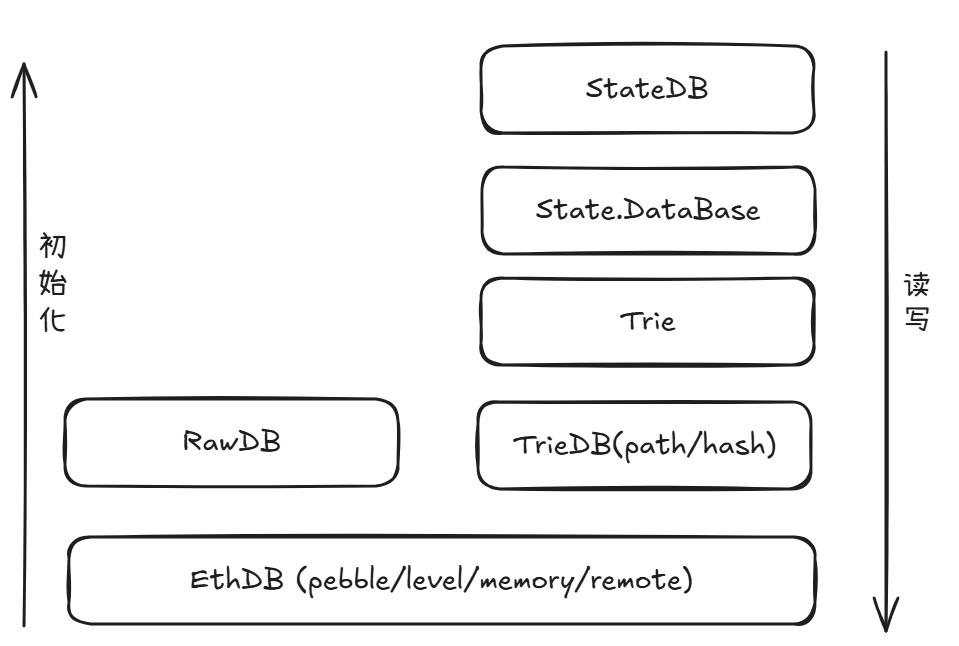
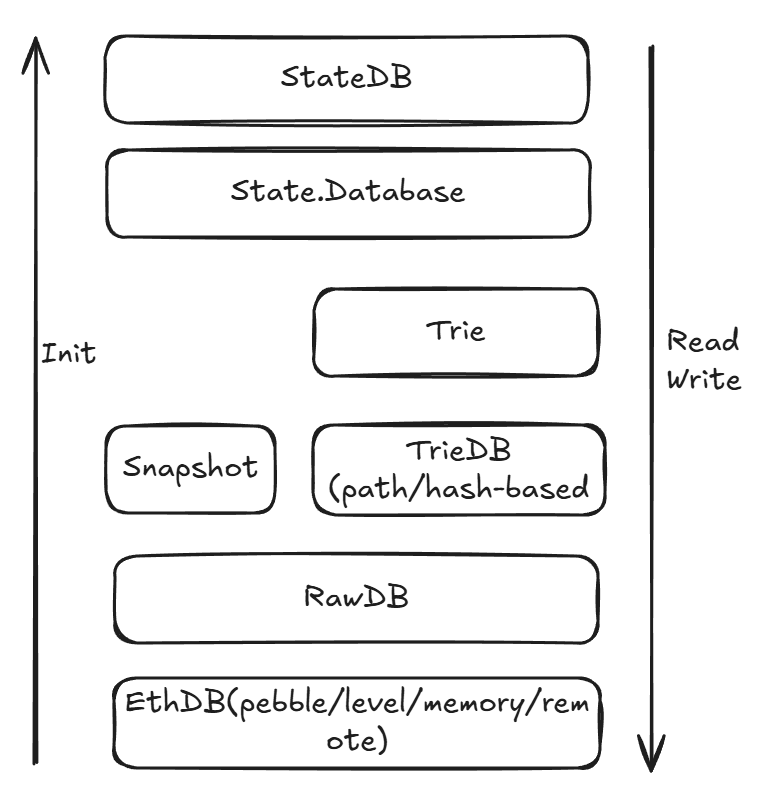
update Geth db design: add snapshot

Changed region(s): [[0.0, 0.031, 0.9896, 0.9907], [0.3898, 0.3715, 0.4198, 0.4644]]

diff --git a/Geth源码系列：存储设计及实现.md b/Geth源码系列：存储设计及实现.md
@@ -1,6 +1,6 @@
 # Geth 源码系列：存储设计及实现
 
-Author: Po
+Author: Po (X: @sanemindpeace)
 
 这篇文章是 Geth 源码系列的第二篇，通过这个系列，我们将搭建一个研究 Geth 实现的框架，开发者可以根据这个框架深入自己感兴趣的部分研究。这个系列共有六篇文章，在这第二篇文章中，将系统讲解 Geth 的存储结构设计与相关源码，介绍其数据库层次划分并详细分析各个层次中相应模块的核心功能。
 
@@ -8,7 +8,7 @@ Author: Po
 
 # 1. Geth底层数据库总览
 
-自 Geth v1.9.0 版本起，Geth 将其数据库分为两部分：**快速访问存储**（KV数据库，用于最近的区块和状态数据）和称为 **freezer 的存储**（用于较旧的区块和收据数据，即“ancients”）。
+自 [Geth v1.9.0 版本起](https://blog.ethereum.org/2019/07/10/geth-v1-9-0)，Geth 将其数据库分为两部分：**快速访问存储**（KV数据库，用于最近的区块和状态数据）和称为 **freezer 的存储**（用于较旧的区块和收据数据，即“ancients”）。
 
 这样划分的目的是减少对昂贵、易损的 SSD 的依赖，将访问频率较低的数据迁移到成本更低、耐用性更高的磁盘上。与此同时，这种拆分也能减轻 LevelDB/PebbleDB 的压力，提高其整理和读取性能，使得在给定的缓存大小下，更多状态树节点能够常驻内存，从而提升整体系统效率。
 
@@ -73,9 +73,9 @@ Geth 的底层使用 LevelDB/PebbleDB 存储所有以 [RLP](https://ethereum.org
 +-----------------------+-----------------------------+------------+------------+
 ```
 
-# 2. 源码视角下的存储分层: 6种DB
+# 2. 源码视角下的存储分层: 7种DB
 
-总体而言，Geth 中包含 `StateDB`、`state.Database`、`trie.Trie`、`TrieDB`、`rawdb` 和 `ethdb` 六个数据库模块，它们如同一棵“状态生命树”的各个层级。最顶层的 `StateDB` 是 EVM 执行阶段的状态接口，负责处理账户与存储的读写请求，并将这些请求逐层下传，最终由最底层负责物理持久化的 `ethdb` 读/写物理数据库。
+总体而言，Geth 中包含 `StateDB`、`state.Database`、`trie.Trie`、`TrieDB`、`Snapshot`、`rawdb` 和 `ethdb` 七个数据库模块，它们如同一棵“状态生命树”的各个层级。最顶层的 `StateDB` 是 EVM 执行阶段的状态接口，负责处理账户与存储的读写请求，并将这些请求逐层下传，最终由最底层负责物理持久化的 `ethdb` 读/写物理数据库。
 
 接下来，我们将依次介绍这六个数据库模块的职责及它们之间的协作关系。
 
@@ -87,27 +87,29 @@ Geth 的底层使用 LevelDB/PebbleDB 存储所有以 [RLP](https://ethereum.org
 
 源码中，`StateDB` 的主要定义位于 `core/state/statedb.go`。它的核心结构维护了一系列内存状态对象（`stateObject`），每个`stateObject`对应一个账户（包含合约存储）。它还包含一个 `journal`（事务日志）用于支持回滚，以及用于追踪状态更改的缓存机制。在交易处理和区块打包过程中，`StateDB` 提供临时状态变更的记录，只有在最终确认后才会写入底层数据库。
 
-`StateDB` 的核心读写接口如下，基本都是账户模型相关的API:
+`StateDB` 的核心读写接口如下，基本都是账户模型[相关的API](https://github.com/ethereum/go-ethereum/blob/d121c27acefb96b875f7d3047dd26e0b83862d59/core/vm/interface.go#L31):
 
 ```go
 // 读相关
 func (s *StateDB) GetBalance(addr common.Address) *uint256.Int 
-func (s *StateDB) GetStorageRoot(addr common.Address) common.Hash 
+func (s *StateDB) GetStorageRoot(addr common.Address) common.Hash
+...
 // 写入dirty状态数据
 func (s *StateDB) SetStorage(addr common.Address, storage map[common.Hash]common.Hash) 
 // 将EVM执行过程中发生的状态变更(dirty数据) commit到后端数据库中
-func (s *StateDB) commitAndFlush(block uint64, deleteEmptyObjects bool, noStorageWiping bool) (*stateUpdate, error) 
+func (s *StateDB) commitAndFlush(block uint64, deleteEmptyObjects bool, noStorageWiping bool) (*stateUpdate, error)
+...
 ```
 
 ### **生命周期**
 
 `StateDB`的生命周期只持续一个区块。在一个区块被处理并提交之后，这个 `StateDB` 就会被废弃，不再具有作用
 
-- EVM 第一次读取某个地址时，`StateDB` 会从`Trie→TrieDB→EthDB`数据库中加载它的值，并将其缓存一个新的状态对象（`stateObject.originalStorage`）中。这一阶段被视为“干净的对象”（clean object）。
+- EVM 第一次读取某个地址时，`StateDB` 会从`Snapshot->EthDB`或`Trie→TrieDB→EthDB`(默认选择[Snapshot](#25-snapshot)，如果Snapshot损坏则采用TrieDB)数据库中加载它的值，并将其缓存一个新的状态对象（`stateObject.originalStorage`）中。这一阶段被视为“干净的对象”（clean object）。
 - 当交易与该账户发生交互并改变其状态时，对象就变成“脏的”（dirty）。`stateObject`会同时追踪该账户的原始状态和所有修改后的数据，包括其存储槽及其干净/脏状态。
 - 如果整个交易最终成功被打包到区块，`StateDB.Finalise()` 会被调用。这个函数负责清理已 `selfdestruct` 的合约，并重置 journal（事务日志）以及 gas refund 计数器。
 - 当所有交易都执行完毕后，`StateDB.Commit()` 被调用。在这之前，状态树`Trie`实际上还未被更改。直到这一步，`StateDB` 才会将内存中的状态变更写入存储 `Trie`，计算出每个账户的最终 storage root，从而生成账户的最终状态。接下来，所有“脏”的状态对象会被写入 `Trie`中，更新其结构并计算新的 `stateRoot`。
-- 最后，这些更新后的节点会被传递给 `TrieDB`，它会根据不同的后端（PathDB/HashDB）缓存这些节点，并最终将它们持久化到磁盘（LevelDB/PebbleDB）——前提是这些数据没有因为链重组被丢弃。
+- 最后，这些更新后的节点会被传递给 `Snapshot`和`TrieDB`，它会根据不同的`TrieDB`后端（PathDB/HashDB）缓存这些节点，并最终将它们持久化到磁盘（LevelDB/PebbleDB）——前提是这些数据没有因为链重组被丢弃。
 
 ## 2.2 State.Database
 
@@ -119,14 +121,24 @@ func (s *StateDB) commitAndFlush(block uint64, deleteEmptyObjects bool, noStorag
 
 - **提供统一的状态访问接口**
 
-`state.Database` 是构建 `StateDB` 的必要依赖，它封装了打开账户 Trie 和存储 Trie 的逻辑，例如：
+`state.Database` 是构建 `StateDB` 的必要依赖，它封装了打开账户 Trie 、存储 Trie和Snapshot 的逻辑，例如：
 
 ```go
-func (db *cachingDB) OpenTrie(root common.Hash) (Trie, error)
-func (db *cachingDB) OpenStorageTrie(stateRoot common.Hash, address common.Address, root common.Hash, trie Trie) (Trie, error)
+// Reader returns a state reader associated with the specified state root.
+Reader(root common.Hash) (Reader, error)
+// OpenTrie opens the main account trie.
+OpenTrie(root common.Hash) (Trie, error)
+// OpenStorageTrie opens the storage trie of an account.
+OpenStorageTrie(stateRoot common.Hash, address common.Address, root common.Hash, trie Trie) (Trie, error)
+// PointCache returns the cache holding points used in verkle tree key computation
+PointCache() *utils.PointCache
+// TrieDB returns the underlying trie database for managing trie nodes.
+TrieDB() *triedb.Database
+// Snapshot returns the underlying state snapshot.
+Snapshot() *snapshot.Tree
 ```
 
-这些方法隐藏了底层 `TrieDB` 的复杂性，开发者在构建某个区块的状态时，只需调用这些方法获取正确的 Trie 实例，而不必直接操作 hash 路径、trie 编码或底层数据库。
+这些方法隐藏了底层 `Snapshot`和`TrieDB` 的复杂性，开发者在构建某个区块的状态时，只需调用这些方法获取正确的状态Reader，而不必直接操作 hash 路径、trie 编码或底层数据库。
 
 - **暂存和复用合约代码（code cache）**
 
@@ -226,6 +238,8 @@ func (t *Trie) get(origNode node, key []byte, pos int) (value []byte, newnode no
 - **HashDB**：传统方式，以哈希为键。
 - **PathDB**：新引入的 Path-based 模型（Geth 1.14.0版本后默认配置），以路径信息作为键，优化了更新与修剪性能。
 
+两种DB存储数据是存储时不会直接用原始 key（例如账户地址、storage key）当作路径，而是先对原始 key 做一层 哈希（Keccak256）防止前缀攻击，保证 trie 的平衡性和查询效率。
+
 源码中，TrieDB 主要位于`triedb/database.go`。
 
 ### Trie 节点的读取逻辑
@@ -287,9 +301,83 @@ storage trie node key = Prefix(1byte) || account hash(32byte) || COMPACTed(node_
 - 被持久化的这棵 Trie 并非链的最新头部，而是落后头部**至少 128 个区块**。最近 128 个区块的 Trie 更改则分别存在内存中，用于应对短链重组（reorg）；
 - 如果出现更大的 reorg，`PathDB`会利用 freezer 中预存的每个区块的 state diff（状态差异）进行逆应用（rollback），将磁盘状态回滚至分叉点。
 
-## 2.5 RawDB
+## 2.5 Snapshot
+由于EVM执行过程时需要访问状态，如果直接采用`TrieDB`则需要log(n)的时间复杂度，因此Geth在[V1.9.0](https://github.com/ethereum/go-ethereum/pull/20152)引入了状态Snapshot，Snapshot本质上存储了:`account=>account state和account=>slot=>slot value`的flat映射关系，这样进行状态访问时只需要O(1)的时间复杂度。Geth现在默认开启了该选项，在Snapsync初步同步完成后或节点非平滑stop的情况下，根据磁盘的读写性能需要花3-9个小时来重新构建Snapshot.
 
-在 Geth 中，`rawdb` 是一个底层数据库读写模块，它直接封装了对状态、区块链数据、Trie 节点等核心数据的存取逻辑，是**整个存储系统的基础接口层**。它并不直接暴露给 EVM 或业务逻辑层，而是作为内部工具服务于如 `TrieDB`、`StateDB`、`BlockChain` 等模块的持久化操作。`rawdb` 和 `trie` 一样，并不直接存储数据本身，它们都是**对底层数据库的抽象封装层**，负责定义存取规则，而非执行最终的数据落盘或读取。可以把 `rawdb` 看作是 Geth 的“硬盘驱动器”，它定义了**所有核心链上数据的键值格式和访问接口**，负责确保不同模块可以统一、可靠地读写数据。虽然在直接开发中很少会使用它，但它是整个 Geth 存储层最基础、最关键的一环。
+## 核心功能
+源码中`Snapshot`主要位于`core/state/snapshot`。`Snapshot`提供了快速访问Account和Storage的接口:
+
+```go
+func (dl *diskLayer) Account(hash common.Hash) (*types.SlimAccount, error)
+func (dl *diskLayer) Storage(accountHash, storageHash common.Hash) ([]byte, error)
+```
+
+当EVM执行访问`StateDB`状态时，会通过多层的状态访问组件[`multiStateReader](https://github.com/ethereum/go-ethereum/blob/485ff4bbff83abbf27a82a5660545e713c992c3f/core/state/database.go#L184)优先访问`Snapshot`:
+```
+if db.snap != nil {
+		// If standalone state snapshot is available (hash scheme),
+		// then construct the legacy snap reader.
+		snap := db.snap.Snapshot(stateRoot)
+		if snap != nil {
+			readers = append(readers, newFlatReader(snap))
+		}
+	} else {
+		// If standalone state snapshot is not available, try to construct
+		// the state reader with database.
+		reader, err := db.triedb.StateReader(stateRoot)
+		if err == nil {
+			readers = append(readers, newFlatReader(reader)) // state reader is optional
+		}
+	}
+	tr, err := newTrieReader(stateRoot, db.triedb, db.pointCache)
+	if err != nil {
+		return nil, err
+	}
+	readers = append(readers, tr)
+
+	combined, err := newMultiStateReader(readers...)
+	if err != nil {
+		return nil, err
+	}
+	return newReader(newCachingCodeReader(db.disk, db.codeCache, db.codeSizeCache), combined), nil
+```
+
+为了便于short-reorg回滚状态和以及批量执行区块儿后写磁盘(节省每次区块执行后需要写磁盘的开销)，与`TrieDB`类似Geth也为`Snapshot`在内存中维护多层[`Difflayer`](https://github.com/ethereum/go-ethereum/blob/767c202e4779536f4d9d862080304f20d9514371/core/state/snapshot/difflayer.go#L93)，其存储了每个区块执行后变动的Account和Storage状态数据:
+```go
+type diffLayer struct {
+	origin *diskLayer // Base disk layer to directly use on bloom misses
+	parent snapshot   // Parent snapshot modified by this one, never nil
+	...
+	accountData map[common.Hash][]byte                 // Keyed accounts for direct retrieval (nil means deleted)
+	storageData map[common.Hash]map[common.Hash][]byte // Keyed storage slots for direct retrieval. one per account (nil means deleted)
+```
+
+EVM执行完区块后，则会更新`Snapshot`:
+- 如果`difflayer`不超过128层，则直接根据区块执行后变化的Account和Storage数据新建一层`difflayer`.
+- 否则，还需要把最后一层的`difflayer`提交到`Snapshot`底层数据库中。节点Stop时，会把128层的`difflayer`全部写入日志中，便于下次启动时直接恢复`Snapshot`.
+
+```go
+func (s *StateDB) commitAndFlush(block uint64, deleteEmptyObjects bool, noStorageWiping bool) (*stateUpdate, error) {
+	...
+	// If snapshotting is enabled, update the snapshot tree with this new version
+	if snap := s.db.Snapshot(); snap != nil && snap.Snapshot(ret.originRoot) != nil {
+		start := time.Now()
+		if err := snap.Update(ret.root, ret.originRoot, ret.accounts, ret.storages); err != nil {
+			log.Warn("Failed to update snapshot tree", "from", ret.originRoot, "to", ret.root, "err", err)
+		}
+		// Keep 128 diff layers in the memory, persistent layer is 129th.
+		// - head layer is paired with HEAD state
+		// - head-1 layer is paired with HEAD-1 state
+		// - head-127 layer(bottom-most diff layer) is paired with HEAD-127 state
+		if err := snap.Cap(ret.root, TriesInMemory); err != nil {
+			log.Warn("Failed to cap snapshot tree", "root", ret.root, "layers", TriesInMemory, "err", err)
+		}
+		s.SnapshotCommits += time.Since(start)
+	}
+```
+## 2.6 RawDB
+
+在 Geth 中，`rawdb` 是一个底层数据库读写模块，它直接封装了对状态、区块链数据、Trie 节点等核心数据的存取逻辑，是**整个存储系统的基础接口层**。它并不直接暴露给 EVM 或业务逻辑层，而是作为内部工具服务于如 `TrieDB`、`StateDB`、`Snapshot`、`BlockChain` 等模块的持久化操作。`rawdb` 和 `trie` 一样，并不直接存储数据本身，它们都是**对底层数据库的抽象封装层**，负责定义存取规则，而非执行最终的数据落盘或读取。可以把 `rawdb` 看作是 Geth 的“硬盘驱动器”，它定义了**所有核心链上数据的键值格式和访问接口**，负责确保不同模块可以统一、可靠地读写数据。虽然在直接开发中很少会使用它，但它是整个 Geth 存储层最基础、最关键的一环。
 
 ### 核心功能
 
@@ -308,7 +396,7 @@ storage trie node key = Prefix(1byte) || account hash(32byte) || COMPACTed(node_
 - 基于`HashDB` 的 Trie 节点采用`rawdb.WriteLegacyTrieNode` 等方法负责将以 `(hash, rlp-encoded node)` 的形式写入数据库。
 - 基于`PathDB`的 Trie 节点则采用`WriteAccountTrieNode, WriteStorageTrieNode` 等方法将以`（path, rlp-encoded node)`的形式写入数据库。
 
-## 2.6 EthDB
+## 2.7 EthDB
 
 在 Geth 中，`ethdb` 是整个存储系统的核心抽象，它扮演着“生命之树”的角色——深深扎根于磁盘，向上传递支持至 `EVM` 与执行层各个组件。其主要目的是**屏蔽底层数据库实现的差异**，为整个 Geth 提供统一的键值读写接口。正因如此，Geth 在任意地方都不直接使用具体的数据库（如 LevelDB、PebbleDB、MemoryDB等），而是通过 `ethdb` 提供的接口进行数据访问。
 
@@ -339,23 +427,24 @@ type KeyValueStore interface {
 
 ### 生命周期与模块贯通
 
-每个 Geth 节点启动时，都会创建唯一的 `ethdb` 实例，这个对象贯穿程序始终，直到节点关闭。在结构设计上，它被注入到 `core.Blockchain` 中，进而传递到 `StateDB`、`TrieDB` 等模块，成为全局共享的数据访问入口。
+每个 Geth 节点启动时，都会创建唯一的 `ethdb` 实例，这个对象贯穿程序始终，直到节点关闭。在结构设计上，它被注入到 `core.Blockchain` 中，进而传递到 `StateDB`、`Snapshot`、`TrieDB` 等模块，成为全局共享的数据访问入口。
 
 正因为 `ethdb` 抽象了底层数据库细节，Geth 的其他组件才能专注于各自的业务逻辑，比如：
 
 - `StateDB` 只关心账户和存储槽；
+- `Snapshot`只关系直接查找Account和Storage的状态;
 - `TrieDB` 只关心如何存储和查找 Trie 节点；
 - `rawdb` 只关心如何组织链数据的键值布局；
 
 这些上层组件都无需感知数据是存在哪个具体数据库引擎里。
 
-# 3. 六种 DB 的创建顺序和调用链
+# 3. 七种 DB 的创建顺序和调用链
 
-本节从 Geth 节点启动开始，梳理这 6 种 DB 的启动流程和调用关系。
+本节从 Geth 节点启动开始，梳理这 7 种 DB 的启动流程和调用关系。
 
 ## 3.1 创建顺序：
 
-整体创建顺序为`ethdb → rawdb/TrieDB → state.Database → stateDB → trie`，源码中具体调用链如下:
+整体创建顺序为`ethdb → rawdb/TrieDB/Snapshot → state.Database → stateDB → trie`，源码中具体调用链如下:
 
 ```bash
 【节点初始化阶段】
@@ -375,8 +464,11 @@ trie.Database (TrieDB)
 └── trie.NewDatabase(ethdb)
 └── backend: pathdb.New(ethdb) / hashdb.New(ethdb)
 ↓
+Snapshot
+└── bc.snaps, _ = snapshot.New(snapconfig, bc.db, bc.triedb, head.Root)
+↓
 state.Database (cachingDB)
-└── state.NewDatabase(trieDB)
+└── bc.statedb = state.NewDatabase(bc.triedb, bc.snaps)
 ↓
 【区块处理阶段】
 chain.InsertChain
@@ -384,6 +476,7 @@ chain.InsertChain
 └── state.New(root, state.Database)
 ↓
 state.StateDB
+└── StateDB.reader = newMultiStateReader(snapShot, trieDB)
 └── stateDB.OpenTrie()
 └── stateDB.OpenStorageTrie()
 ↓
@@ -397,6 +490,7 @@ trie.Trie / SecureTrie
 | **ethdb.Database** | 节点初始化 | 程序全程 | 抽象底层存储，统一接口（LevelDB / PebbleDB / Memory） |
 | **rawdb** | 包裹 ethdb 调用 | 不存储数据本身 | 提供区块/receipt/总难度等链数据的读写接口 |
 | **TrieDB** | `core.NewBlockChain()` | 程序全程 | 缓存+持久化 PathDB/HashDB 节点 |
+| **Snapshot** | `core.NewBlockChain()` | 程序全程 | 缓存+持久化 Flat Account和Storage |
 | **state.Database** | `core.NewBlockChain()` | 程序全程 | 封装 TrieDB，合约代码缓存，后期支持 Verkle 迁移 |
 | **state.StateDB** | 每个区块执行前创建一次 | 区块执行期间 | 管理状态读写，计算状态根，记录状态变更 |
 | **trie.Trie** | 每次账户或slot访问时创建 | 临时，不存储数据本身 | 负责 Trie 结构修改和根哈希计算 |
@@ -417,13 +511,23 @@ trie.Trie / SecureTrie
     ```
     
     - 其中调用到的`trie.Commit`方法会把所有的节点（不论是short节点还是full节点）[塌缩为hash节点](https://github.com/ethereum/go-ethereum/blob/4dfec7e83e4634cc8ab254b4bdbe9e692142316b/trie/committer.go#L51)`t.root = **newCommitter**(nodes, t.tracer, collectLeaf).**Commit**(t.root, t.uncommitted > 100)`，并收集所有脏节点返回给 StateDB
-    - StateDB利用收集到的所有脏节点更新TrieDB缓存层：
+    - StateDB利用收集到的所有脏节点更新TrieDB和Snapshot缓存层：
         - `HashDB`在内存中维护了`dirties map[**common**.**Hash**]***cachedNode**`这个对象来缓存这些更新，并更新相应的trie节点引用，缓存有大小限制
-        - `PathDB`则在内存中维护了`tree ***layerTree**`  这个对象并增加一层diff来缓存这些更新，最多可缓存128层diff
+        - `PathDB`则在内存中为`TrieDB`维护了`tree ***layerTree**`  这个对象并增加一层diff来缓存这些更新，最多可缓存128层diff(最近的128层diff以journal形式保存，超过128层journal会将其保存在历史数据中，历史数据默认最多保存90k个块儿)
+        - `HashDB`和`PathDB`模式下都在内存中维护`Snapshot`的diffLayer来缓存Account和Storage的更新，同样最多可缓存128层diff(diff的历史数据以journal形式保存，最多保存128个块儿的数据)
     
     ```go
     func (s *StateDB) commitAndFlush(block uint64, deleteEmptyObjects bool, noStorageWiping bool) (*stateUpdate, error) {
     		...
+		    // If snapshotting is enabled, update the snapshot tree with this new version
+    		if snap := s.db.Snapshot(); snap != nil && snap.Snapshot(ret.originRoot) != nil {
+				if err := snap.Update(ret.root, ret.originRoot, ret.accounts, ret.storages); err != nil {
+					log.Warn("Failed to update snapshot tree", "from", ret.originRoot, "to", ret.root, "err", err)
+				}
+				if err := snap.Cap(ret.root, TriesInMemory); err != nil {
+					log.Warn("Failed to cap snapshot tree", "root", ret.root, "layers", TriesInMemory, "err", err)
+				}
+			}
     		// If trie database is enabled, commit the state update as a new layer
     		if db := s.db.TrieDB(); db != nil {
     			start := time.Now()
@@ -508,19 +612,19 @@ HashDB read: 0x2c7d134997a5c3e0bf47ff347479ee9318826f1c58689b3d9caeac77287c3af8
 # 5. DB 相关读写操作流程追踪
 
 1. **交易执行阶段**
-- 所有账户和Storage值通过`StateDB.GetState`等方法经过`Trie→TrieDB(pathdb/hashdb)→RawDB→Level/PebbleDB`读取到StateDB内存中
+- 所有账户和Storage值通过`StateDB.GetState`等方法经过`Snapshot(或者Trie→TrieDB(pathdb/hashdb))→RawDB→Level/PebbleDB`读取到StateDB内存中
 - 随后EVM执行状态变更（如调用 `Statedb.SetBalance()` ）也保留在 StateDB 的内存中
     - 包括：余额变更、nonce 更新、storage 修改
 1. **单个区块执行完毕更新缓存**
 - 调用 `StateDB.Commit()` → 收集脏节点转化为修改的 Trie 节点组，并计算新 StateRoot
-- 内部调用 `Trie.Commit()` → 调用 `TrieDB.Update()`将更改保存在 TrieDB 缓存层
+- 内部调用 `Trie.Commit()` → 调用 `TrieDB.Update()`将更改保存在Snapshot和TrieDB 缓存层
     - PathDB 最多有 128 个块的 diff 缓存层限制
     - HashDB 的缓存层有大小限制
-    - 超过上述限制则进一步触发`TrieDB.Commit`实际落盘到底层数据库
+    - 超过上述限制则进一步触发`Snapshot`和`TrieDB`进行Commit实际落盘到底层数据库
 1. **单个区块执行完毕 Header / Receipts 提交：**
     - 除状态以外，区块头、body、交易回执等数据通过 `RawDB.Write*(ethdb)` 等接口写入 `ethdb`层
-2. **多个区块执行后缓存超限触发实际落盘TrieDB.Commit → batch → DB**
-    - 节点是归档节点node 或超过 flushInterval 或超过 TrieDB 的缓存限制或节点关闭前，开始触发commit，并最终落盘。如下是`PathDB`模式下落盘核心代码:
+2. **多个区块执行后缓存超限触发实际落盘Snapshot/TrieDB.Commit → batch → DB**
+    - 节点是归档节点node 或超过 flushInterval 或超过 Snapshot/TrieDB 的缓存限制或节点关闭前，开始触发commit，并最终落盘。如下是`PathDB`模式下落盘核心代码:
 
 ```go
 func (db *Database) commit(hash common.Hash, batch ethdb.Batch, uncacher *cleaner) error {
@@ -536,9 +640,9 @@ func (db *Database) commit(hash common.Hash, batch ethdb.Batch, uncacher *cleane
 
 # 6. 总结
 
-Geth 中的这 6 个数据库模块各自承担不同层级的职责，形成了一条自底向上的数据访问链。通过多层抽象与多级缓存，上层模块无需关心底层的具体实现，从而实现了底层存储引擎的可插拔性与较高的 I/O 性能。
+Geth 中的这 7 个数据库模块各自承担不同层级的职责，形成了一条自底向上的数据访问链。通过多层抽象与多级缓存，上层模块无需关心底层的具体实现，从而实现了底层存储引擎的可插拔性与较高的 I/O 性能。
 
-最底层的 `ethdb` 抽象了物理存储，屏蔽具体数据库类型，支持如 LevelDB、Pebble、RemoteDB 等多种后端；其上一层是 `rawdb`，负责对区块、区块头、交易等核心链上数据结构的编码、解码与封装，简化了链数据的读写操作。`TrieDB` 管理状态树节点的缓存与持久化，支持 `hashdb` 与 `pathdb` 两种后端，用于实现不同的状态修剪策略和存储方式。
+最底层的 `ethdb` 抽象了物理存储，屏蔽具体数据库类型，支持如 LevelDB、Pebble、RemoteDB 等多种后端；其上一层是 `rawdb`，负责对区块、区块头、交易等核心链上数据结构的编码、解码与封装，简化了链数据的读写操作。`Snapshot`管理flat Account和Storage，便于EVM执行时快速读取状态。`TrieDB` 管理状态树节点的缓存与持久化，支持 `hashdb` 与 `pathdb` 两种后端，用于实现不同的状态修剪策略和存储方式。
 
 再往上，`trie.Trie` 是状态变化的执行容器与根哈希的计算核心，承担实际的状态构建与遍历操作；`state.Database` 封装对账户和合约存储 Trie 的统一访问，并提供合约代码缓存；而最顶层的 `state.StateDB` 是在区块执行过程中与 EVM 对接的接口，提供账户与存储的读缓存和写支持，使得 EVM 无需感知底层 Trie 的复杂结构。
 
